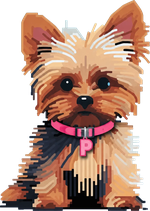
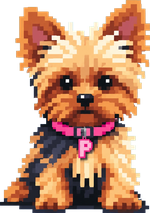
Nueva imagen de Zogli y bocadillos con el nombre de quien habla
- Zogli usa la nueva imagen pixel art del usuario
- Cada bocadillo muestra el nombre (ALVIN / ZOGLI) para que no se confundan
- Más frases de perro para Zogli
- Solo reacciona la mascota que tocas, no el hueco de alrededor

diff --git a/index.html b/index.html
@@ -303,10 +303,10 @@
 
   /* pixel pets: Alvin the cat and Zogli the Yorkshire */
   .pet-layer { position: absolute; left: 0; right: 0; bottom: 9%; height: 0; z-index: 1; pointer-events: none; }
-  .pet { position: absolute; bottom: 0; left: 0; width: 48px; height: 48px; pointer-events: auto; cursor: pointer; -webkit-user-select: none; user-select: none; }
+  .pet { position: absolute; bottom: 0; left: 0; width: 48px; height: 48px; pointer-events: none; cursor: pointer; -webkit-user-select: none; user-select: none; }
   .pet-flip { position: absolute; inset: 0; transform-origin: 50% 100%; }
   .pet.left .pet-flip { transform: scaleX(-1); }
-  .pet-sprite { position: absolute; left: 0; bottom: 0; width: 48px; height: 45px; transform-origin: 50% 100%; }
+  .pet-sprite { pointer-events: auto; position: absolute; left: 0; bottom: 0; width: 48px; height: 45px; transform-origin: 50% 100%; }
   .pet-sprite svg, .pet-umbrella svg { display: block; width: 100%; height: 100%; image-rendering: pixelated; shape-rendering: crispEdges; }
   .pet-shadow { position: absolute; left: 6px; right: 6px; bottom: -3px; height: 5px; border-radius: 50%; background: rgba(0,0,0,.18); transition: transform .2s; }
   .pet.walking .pet-sprite { animation: petWalk .42s ease-in-out infinite; }
@@ -336,6 +336,7 @@
     padding: 6px 10px; border-radius: 12px; box-shadow: 0 4px 14px rgba(0,0,0,.15);
     transition: opacity .2s, transform .2s; pointer-events: none;
   }
+  .pet-name { display: block; font-size: 10px; font-weight: 700; letter-spacing: .04em; text-transform: uppercase; color: #6a7a8c; margin-bottom: 1px; }
   .pet-bubble::after { content: ""; position: absolute; left: calc(50% + var(--tail, 0px)); bottom: -5px; margin-left: -5px; border: 5px solid transparent; border-bottom: 0; border-top-color: #fff; }
   .pet-bubble.show { opacity: 1; transform: translate(-50%, 0) scale(1); }
   .pet.rainy .pet-bubble { bottom: 74px; }
@@ -909,16 +910,17 @@
       },
     },
     {
-      name: "Zogli", what: "el Yorkshire", sound: "¡Guau!", x: 200, speed: 34, depth: -4, w: 50, h: 70,
+      name: "Zogli", what: "el Yorkshire", sound: "¡Guau!", x: 200, speed: 34, depth: -4, w: 50, h: 71,
       // your own picture of Zogli; eyes in % of the picture (to close them or add sunglasses)
-      image: "pets/zogli.png", eyes: [[44.2, 39.9], [69.1, 39.3]],
+      image: "pets/zogli.png", eyes: [[43.8, 38.5], [69.8, 38.5]],
       lines: {
-        night: ["Zzz… guau", "Grr… zzz", "Guau… a dormir"],
-        rain: ["¡Guau! ¡Paraguas!", "No me quiero mojar el pelo", "¡Guau, cuánta agua!"],
-        snow: ["¡Guau! ¡Nieve!", "¡A jugar con la nieve!"],
-        hot: ["Guau, qué calor…", "¿Me das agüita?"],
-        cold: ["Guau… tiemblo de frío", "¿Me pones el abrigo?"],
-        any: ["¡Guau!", "¡Guau guau!", "¿Paseo? ¡Guau!", "¡Hola! Soy Zogli", "¿Jugamos a la pelota?"],
+        night: ["Zzz… guau", "Grr… zzz", "Guau… a dormir", "Soñando con huesos… zzz"],
+        rain: ["¡Guau! ¡Paraguas!", "No me quiero mojar el pelo", "¡Guau, cuánta agua!", "Hoy paseo cortito, ¿vale?", "¡Charcos! ¡Guau!"],
+        snow: ["¡Guau! ¡Nieve!", "¡A jugar con la nieve!", "¡Guau! ¡Tengo frío en las patitas!"],
+        hot: ["Guau, qué calor…", "¿Me das agüita?", "Busco sombrita, guau", "Jadeo… guau"],
+        cold: ["Guau… tiemblo de frío", "¿Me pones el abrigo?", "Guau, a casa calentito"],
+        any: ["¡Guau!", "¡Guau guau!", "¿Paseo? ¡Guau!", "¡Hola! Soy Zogli", "¿Jugamos a la pelota?",
+          "¿Me rascas la barriga?", "¡Guau! ¿Tienes una galletita?", "¡Te quiero, guau!", "¡Guau! ¿Vamos al parque?"],
       },
     },
   ];
@@ -992,7 +994,7 @@
 
   function petSay(pet, text) {
     const b = pet.bubble;
-    b.textContent = text;
+    b.innerHTML = `<b class="pet-name">${pet.name}</b>${esc(text)}`;
     // keep the bubble inside the screen; the little tail still points at the pet
     const W = pet.el.parentElement.clientWidth, bw = b.offsetWidth, center = pet.x + pet.w / 2;
     const shift = Math.min(W - 8 - bw / 2, Math.max(8 + bw / 2, center)) - center;

diff --git a/sw.js b/sw.js
@@ -1,5 +1,5 @@
 // Mi Día — service worker: la app abre sin conexión y los datos se piden siempre frescos.
-const CACHE = "midia-v16";
+const CACHE = "midia-v17";
 const SHELL = ["./", "index.html", "calendar.js", "manifest.json", "pets/zogli.png", "icons/icon-192.png", "icons/icon-512.png", "icons/apple-touch-icon.png"];
 
 self.addEventListener("install", (e) => {
